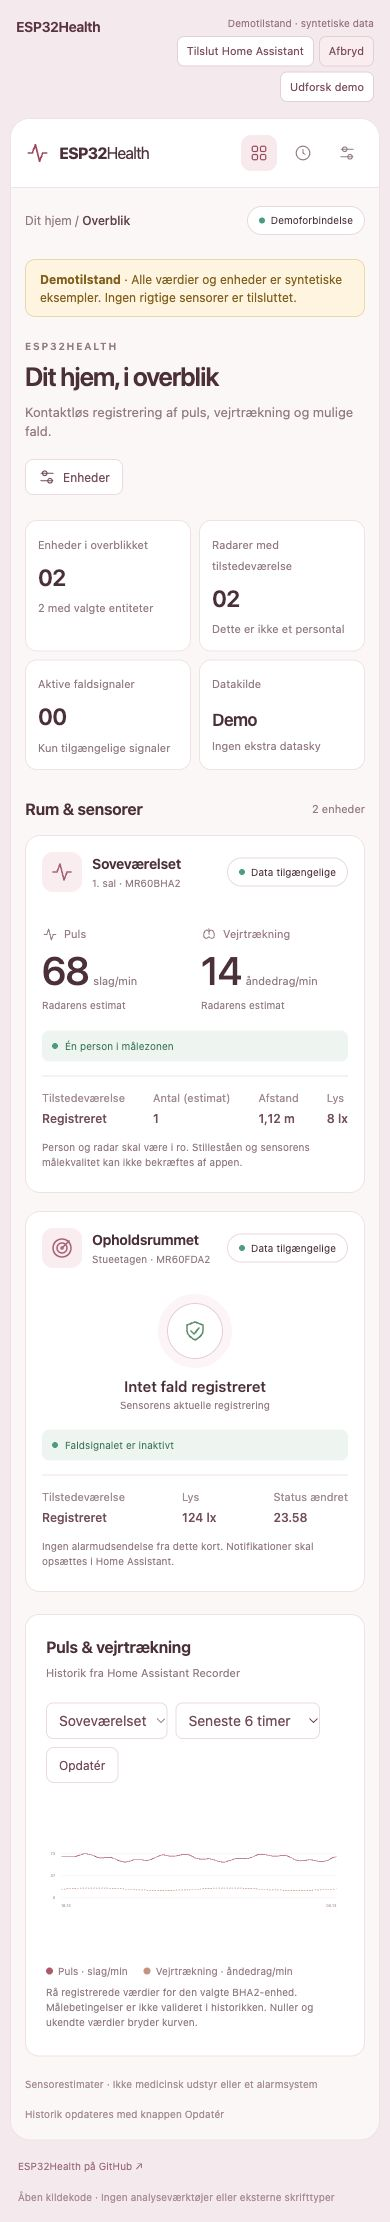
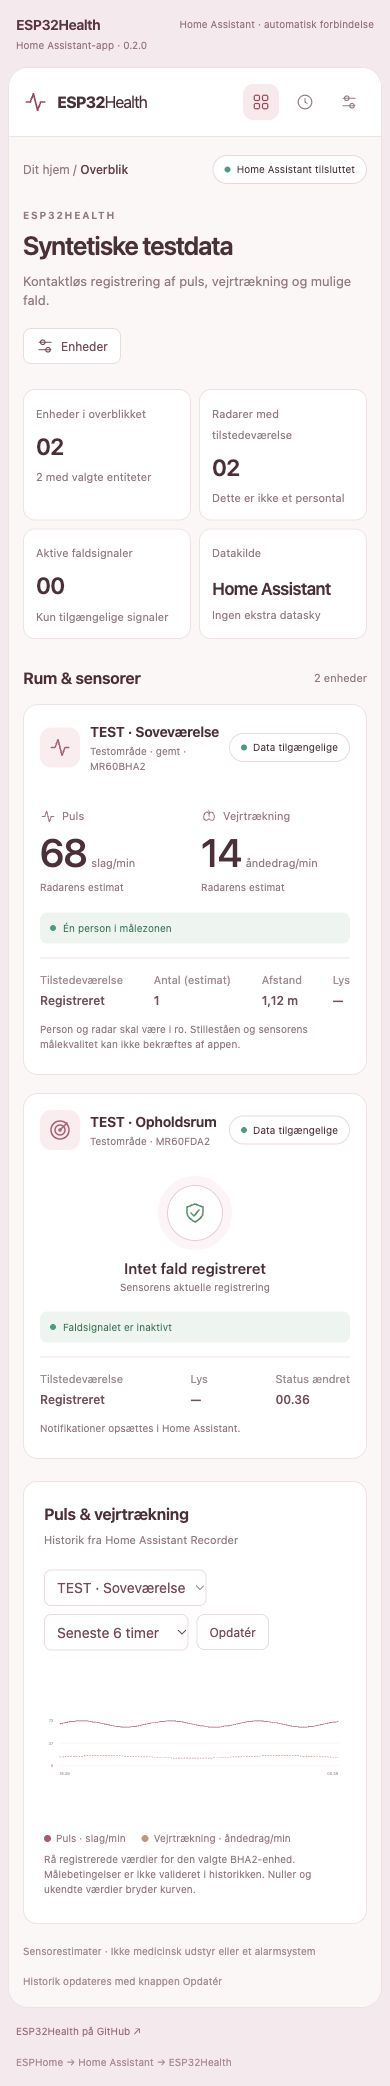
Finalize app documentation and use Home Assistant manifest defaults

diff --git a/docs/validation.md b/docs/validation.md
@@ -1,13 +1,19 @@
-# Preview validation
+# Validation — Home Assistant app 0.2.0
 
-Version: 0.1.0. Development validation date: 14 November 2026 (Europe/Copenhagen).
+Date: 14 November 2026, Europe/Copenhagen.
 
-- Node.js 22.16.0: 21/21 scenarios passed through `node --test tests/health.test.js`.
-- JavaScript syntax checked for the card, standalone app, HA adapter, demo and scenarios.
-- Static server returned HTTP 200.
-- Browser: standalone synthetic demo and history rendered; desktop width 1440 and mobile width 390 checked. The mobile document had no horizontal overflow.
-- Browser: custom card harness rendered `setConfig`/`hass` input, active fall banner, connection loss with unknown current values and the visual editor's `config-changed` event.
-- Screenshots use synthetic data only.
-- Source reviewed for accidental tokens/private data before publication.
+## Software and browser checks
 
-Not yet verified: physical radar measurements, real Home Assistant authentication/state/history integration, installation in a live Lovelace dashboard, HACS installation, iOS Safari on a physical phone, and long-running browser/resource use. Mock protocol and browser-contract tests do not replace these checks.
+- Python 3.13: 15 backend tests passed. Covers ingress checks, local health endpoint, CSRF header, config validation, atomic persistence/restart, concurrent-edit conflicts, history access scoping, redaction, SSE queue behavior and a real mock WebSocket handshake/state removal/disconnection/reconnection.
+- Node.js 22: 16 shared sensor scenarios passed. Covers invalid and unavailable values, distance units, vital-estimate conditions, stale timestamps, configuration validation, conservative discovery, compressed history and CSV escaping.
+- Browser fixture uses the full app/backend under `/api/hassio_ingress/synthetic/`, with synthetic data and no connection to a real Home Assistant.
+- Verified automatic data loading without URL/token fields, Recorder-shaped history and entity setup. A changed area was saved and remained after reloading the browser.
+- Desktop width 1440 and mobile width 390 visually checked; no horizontal overflow at mobile width. Screenshots are synthetic fixtures.
+
+## Package checks
+
+GitHub Actions validates app configuration with the Home Assistant app linter and builds/starts the Docker image for both `linux/amd64` and `linux/arm64`. The smoke test checks the app's health endpoint with a synthetic Supervisor credential; it does not authenticate to a real Home Assistant. See the Actions result for the released commit.
+
+## Remaining verification
+
+Installation on the user's Home Assistant OS, authentication through their actual Supervisor/Ingress, their Recorder configuration, physical radar behavior, physical iOS Safari and long-running resource behavior have not been verified. A successful image build and mock-protocol test do not establish radar accuracy or alarm reliability.
